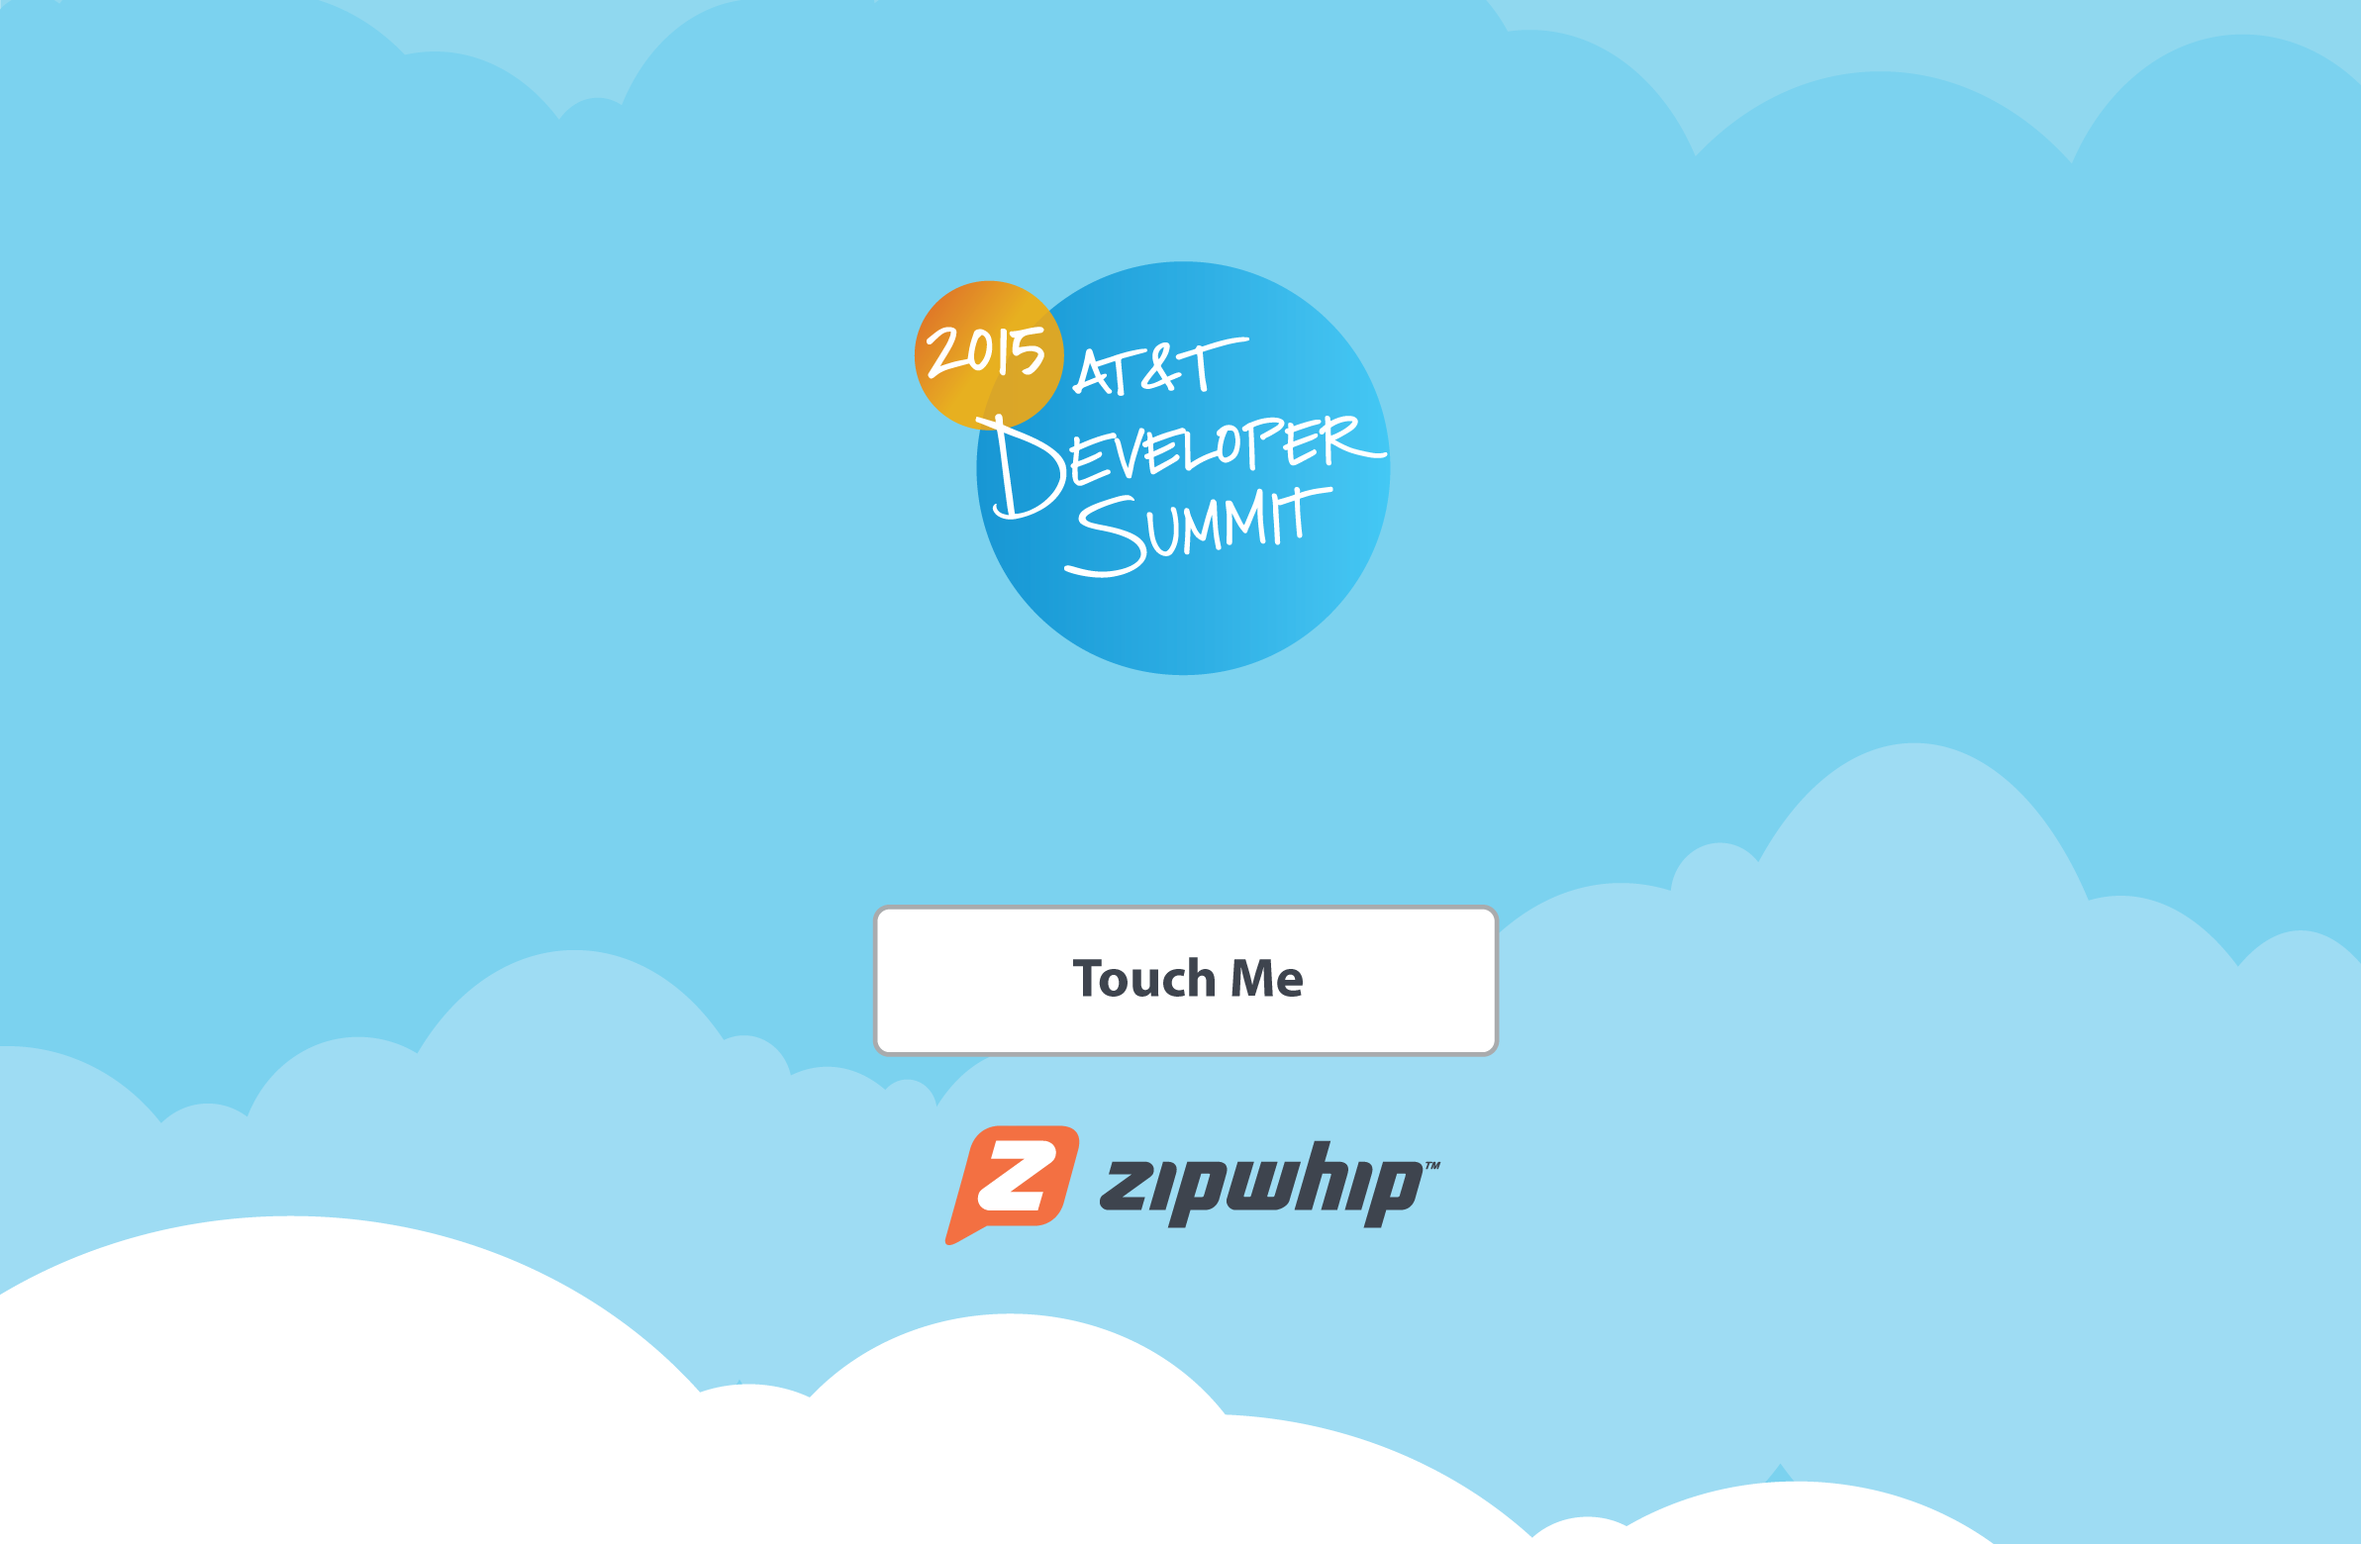
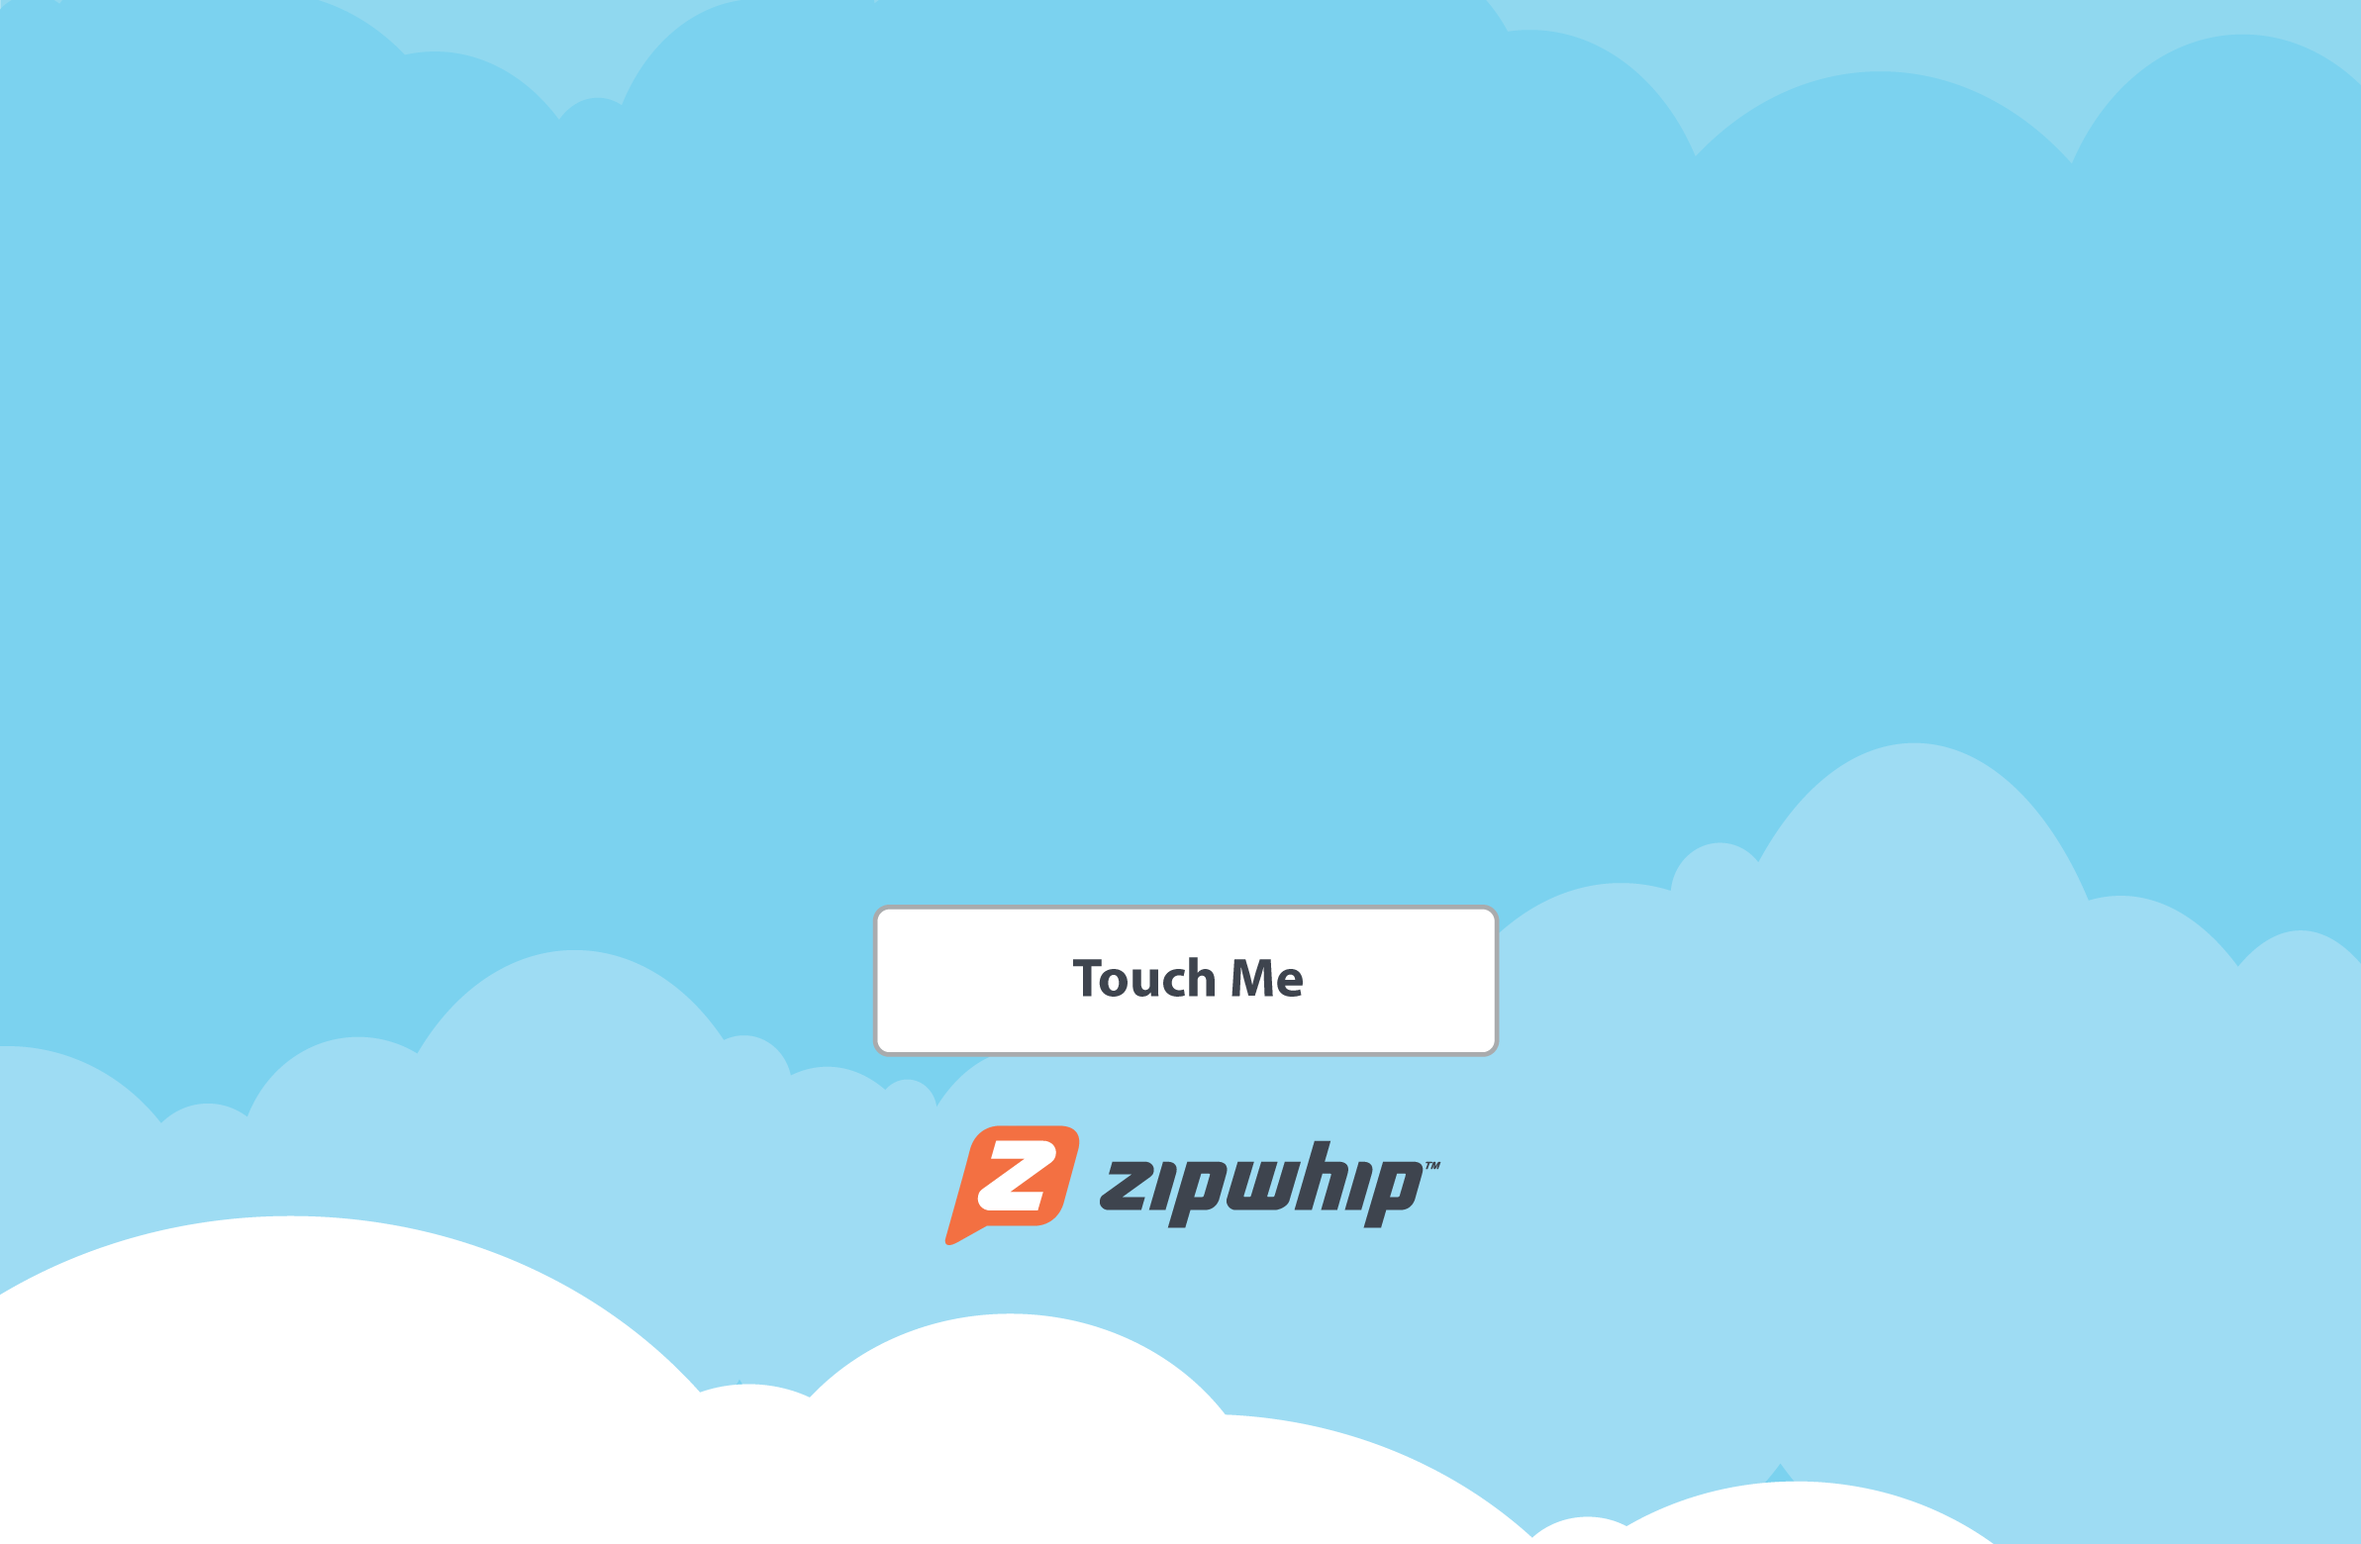
zipwhip christmas party changes

Changed region(s): [[0.3723, 0.1538, 0.5895, 0.4615]]

diff --git a/public/javascripts/booth.js b/public/javascripts/booth.js
@@ -266,11 +266,11 @@ function showTimer() {
 function getRandomMessage() {
 	var messagesArray = [];
 
-	messagesArray.push('It\'s Halloween 2017!')
-	messagesArray.push('Show off that costume!')
+	messagesArray.push('Say Zipwhip Christmas Party!')
+	messagesArray.push('Say Hi To Santa!')
 	messagesArray.push('Work it!')
 	messagesArray.push('The camera loves you baby!')
-	messagesArray.push('Lauer Halloween Rager 2017!')
+	messagesArray.push('Zipwhip Christmas Party 2017!')
 	var to = messagesArray.length;
 	var from = 0;
 	return messagesArray[((Math.random() * (to - from) + from).toFixed(0) * 1)];

diff --git a/routes/send.js b/routes/send.js
@@ -114,7 +114,7 @@ function sendMessage(storageKey, path, phone) {
   //     'Post your pics with #FindYourRhythmTBC') + '&key=' + storageKey
   var path = '/messaging/send/?session=' + session + '&to=' +
     encodeURIComponent('+1' + phone) + '&body=' + encodeURIComponent(
-      'Lauer Halloween Rager 2017') + '&key=' + storageKey
+      'Zipwhip Christmas Party 2017') + '&key=' + storageKey
 
   var options = {
     host: hostname,

diff --git a/public/templates/final.html b/public/templates/final.html
@@ -44,9 +44,9 @@
 		});
 
 		// Original Zipwhip cloud
-		// $('body').css('background-image', 'url(/images/background-final.png)');
+		$('body').css('background-image', 'url(/images/background-final.png)');
 
 		// Lauer Halloween Party 2017 final bg
-		$('body').css('background-image', 'url(/images/LAUER-background-FINAL.png)');
+		// $('body').css('background-image', 'url(/images/LAUER-background-FINAL.png)');
 
 </script>

diff --git a/public/templates/start.html b/public/templates/start.html
@@ -52,6 +52,6 @@
 	// $('body').css('background-image', 'url(/images/bigT.jpg)');
 
 	// Lauer Halloween Party 2017 background
-	$('body').css('background-image', 'url(/images/LAUER-background.png)');
+	// $('body').css('background-image', 'url(/images/LAUER-background.png)');
 
 </script>

diff --git a/public/templates/display.html b/public/templates/display.html
@@ -51,7 +51,7 @@
 
 	$('#audio-selfie').hide();
 
-	$('body').css('background-image', 'url(/images/getdown-display.jpg)');
+	// $('body').css('background-image', 'url(/images/getdown-display.jpg)');
 	
 setInterval(function(){
 	$.get('/total')

diff --git a/public/templates/booth.html b/public/templates/booth.html
@@ -14,5 +14,5 @@
 
 <script>
 // Lauer Halloween Party 2017 background
-$('body').css('background-image', 'url(/images/LAUER-background-EMPTY.png)');
+// $('body').css('background-image', 'url(/images/LAUER-background-EMPTY.png)');
 </script>

diff --git a/public/templates/phone.html b/public/templates/phone.html
@@ -65,5 +65,5 @@
 
 <script>
 // Lauer Halloween Party 2017 background
-$('body').css('background-image', 'url(/images/LAUER-background-PHONE.png)');
+// $('body').css('background-image', 'url(/images/LAUER-background-PHONE.png)');
 </script>
